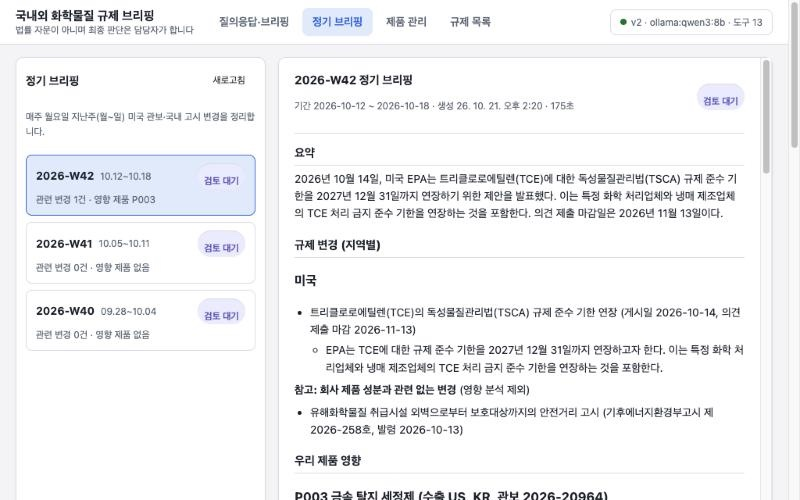
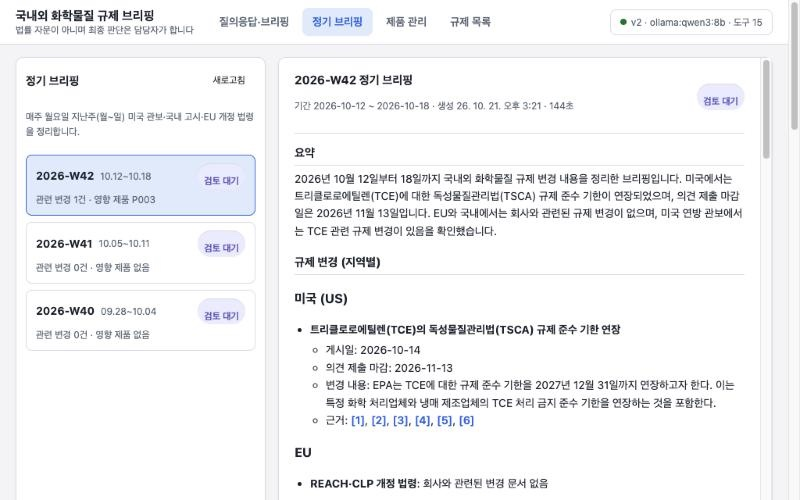
docs: Step 11 EU 수집 실습, 정기 브리핑 경고 기록, 능력 표 갱신

diff --git a/README.md b/README.md
@@ -11,7 +11,7 @@
 
 | 담당자의 문제 | 이 서비스 |
 | --- | --- |
-| 국내외 공고·관보를 매주 직접 찾아 읽는다 (정기 브리핑: 매주 월요일 지난주 변경을 자동으로 정리) | 미국 연방 관보 API + 국내 법제처 행정규칙(고시) 실시간 조회 → 요청한 물질·제품과 관련된 문서만 골라 한국어 요약 (관련 변경이 없으면 없다고 먼저 답함). 국내 수집은 LLM이 검색어를 정하는 ReAct 에이전트 |
+| 국내외 공고·관보를 매주 직접 찾아 읽는다 (정기 브리핑: 매주 월요일 지난주 변경을 자동으로 정리) | 미국 연방 관보 API + 국내 법제처 행정규칙(고시) + EU REACH·CLP 개정 법령(EU 출판국 Cellar) 실시간 조회 → 요청한 물질·제품과 관련된 문서만 골라 한국어 요약 (관련 변경이 없으면 없다고 먼저 답함). 국내 수집은 LLM이 검색어를 정하는 ReAct 에이전트 |
 | 우리 제품이 해당되는지 원료 목록과 일일이 대조한다 | 제품 CAS × 규제 DB를 **코드로 판정** (수출 지역, 성형품/혼합물, 함량 기준, 그룹 합산, 불순물) |
 | 번역·요약 중 숫자·CAS·날짜가 틀리면 대응이 틀어진다 | 원문과 번역의 CAS·날짜·숫자를 코드로 대조, 지어낸 사실은 가드가 차단 |
 | 판단 근거를 나중에 다시 찾기 어렵다 | 답변의 `[n]`마다 원문 문장·번역·출처 URL·기준일·검증 상태 |
@@ -66,8 +66,8 @@ flowchart TD
     inform -- inform --> fin
     inform -- lookup --> lookup["물질·제품 조회<br/>코드 판정 + 함유 제품"] --> fin
     inform -- briefing --> plan[계획] --> gate["계획 검증 (코드)"]
-    gate -- Send 병렬 --> us["해외 수집<br/>연방 관보"] & kr["국내 수집 (ReAct)<br/>법제처 고시"] & db["규제 DB 대조"]
-    us & kr & db --> review{"수집 충분?"}
+    gate -- Send 병렬 --> us["해외 수집<br/>연방 관보"] & kr["국내 수집 (ReAct)<br/>법제처 고시"] & eu["EU 수집<br/>REACH·CLP 개정 법령"] & db["규제 DB 대조"]
+    us & kr & eu & db --> review{"수집 충분?"}
     review -- "관련 문서 0건: 기간 30일로 넓혀 재조사" --> us
     review --> sum["요약·근거 번역<br/>+ 무결성 검사"] --> impact["제품 영향 판정 (코드)"]
     impact --> write["브리핑 작성 (토큰 스트리밍)"] --> guard["사실·근거 가드 (코드)"]
@@ -204,7 +204,7 @@ LLM_BACKEND=ollama uv run python scripts/run_eval.py --judge
 | API | FastAPI, SSE, Pydantic, lifespan 싱글턴, CORS 허용 출처 명시 |
 | 화면 | Vue 3 + Vite, `fetch` + `ReadableStream` SSE 파서, marked + DOMPurify |
 | 관측·평가 | LangSmith (트레이스·피드백·Dataset·Experiment), 코드 채점기 + LLM-as-Judge, 관리자 페이지(실행 기록·승인 이력) |
-| 데이터 | SQLite (규제 DB, 제품 DB), 미국 연방 관보 API, 법제처 국가법령정보 Open API |
+| 데이터 | SQLite (규제 DB, 제품 DB), 미국 연방 관보 API, 법제처 국가법령정보 Open API, EU 출판국 Cellar(SPARQL) |
 | 배포 | Docker Compose (백엔드 이미지 + nginx 화면 이미지 + 영구 볼륨, 선택: Ollama 컨테이너) |
 
 ## 프로젝트 구조
@@ -224,19 +224,19 @@ frontend/        Vue 화면 (사용자 index.html · 관리자 admin.html)
 data/            규제 목록·가상 제품·용어집 CSV, 관보·국내 고시 스냅샷, 평가 질문
 scripts/         DB 빌드, 공식 목록 가져오기, 실행, 평가 스크립트
 Dockerfile, docker-compose.yml   배포 (frontend/Dockerfile·nginx.conf)
-tests/           pytest (백엔드 120개 · 화면 23개)
-docs/lab/        단계별 핸즈온 랩 (Step 0 → 10)
+tests/           pytest (백엔드 126개 · 화면 23개)
+docs/lab/        단계별 핸즈온 랩 (Step 0 → 11)
 ```
 
 ## 문서
 
-- [핸즈온 랩](docs/lab/README.md): Step 0(골격)부터 Step 10(정기 브리핑)까지, 단계마다 만든 파일·실행 명령·기대 결과·실제로 겪은 문제
+- [핸즈온 랩](docs/lab/README.md): Step 0(골격)부터 Step 11(EU 수집)까지, 단계마다 만든 파일·실행 명령·기대 결과·실제로 겪은 문제
 - [주제·페인포인트·설계](docs/topic-final.md) · [요구사항](REQUIREMENTS.md) · [개발 일지](DEVLOG.md) · [트러블슈팅](troubleshooting.md)
 
 ## 한계
 
 - **다루는 지역은 국내·미국·EU·중국·일본**입니다. 그 밖의 국가(예: 태국)는 "확인할 수 없음"으로 안내하고, 판정 결과가 없어도 수출 가능 여부를 뜻하지 않습니다.
-- **변경 수집은 미국 연방 관보와 국내 법제처 행정규칙(고시)**입니다. EU·중국·일본은 등재 목록 대조로만 확인합니다. 국내는 개정문·이번 부칙·신구 조문 대비로 "무엇이 바뀌었나"를 판단하며, 별표만 바뀌어 대비표가 없는 고시는 "개정 내용 미제공 — 원문 확인"으로 안내합니다.
+- **변경 수집은 미국 연방 관보, 국내 법제처 행정규칙(고시), EU REACH·CLP 개정 법령**입니다. 중국·일본은 등재 목록 대조로만 확인합니다. EU SVHC 후보 목록 추가는 법령이 아니라 ECHA 결정이라 자동 수집하지 않고 규제 DB(확인일) 기준으로 안내합니다. 국내는 개정문·이번 부칙·신구 조문 대비로 "무엇이 바뀌었나"를 판단하며, 별표만 바뀌어 대비표가 없는 고시는 "개정 내용 미제공 — 원문 확인"으로 안내합니다.
 - 소형 모델이 경과조치("~한 것으로 본다")의 날짜를 의무 기한으로 잘못 요약할 수 있습니다. 날짜가 원문에 있으면 가드가 잡지 못하므로 근거 원문을 함께 확인해야 합니다.
 - "○○ 및 그 화합물"처럼 총칭으로 지정된 항목은 CAS로 모든 화합물을 대조할 수 없습니다(대표 화합물만 명시).
 - 공식 목록은 개정됩니다. 확인일(2026-10-20) 이후 개정은 `scripts/import_official_lists.py`로 다시 가져와야 합니다.

diff --git a/docs/lab/step11-eu-feed.md b/docs/lab/step11-eu-feed.md
@@ -1,0 +1,58 @@
+# Step 11 — EU 수집 에이전트
+
+## 목표
+"EU REACH의 가장 최근 변경은?"에 "확인할 수 없음"(Step 9)이 아니라 **실제 개정 법령**으로 답한다.
+EUR-Lex 웹사이트는 자동 요청을 막지만(403), 같은 공식 문서를 EU 출판국 **Cellar**가 SPARQL(검색)·XHTML(본문)로 준다. 키가 필요 없다.
+
+```
+search_eu_acts  : SPARQL — REACH(32006R1907)·CLP(32008R1272)를 "개정한(amends)" 법령, 채택일 기간, 영문 제목
+get_eu_act      : Cellar 본문 → 회사 물질(영문명·CAS) 언급, 채택일("of 8 August 2025"), 관보 게재일("L series 2025/1731 11.8.2025")
+EU 수집 에이전트: 회사 물질이 나오는 법령 → 영향 분석 / 나머지 → "회사 제품 성분과 관련 없는 변경"(참고)
+                  90일에 없으면 1년 재검색 · SVHC 추가는 법령이 아니라 ECHA 결정 → "확인하지 못한 항목" + DB 기준 최근 등재
+```
+
+## 만드는 파일
+
+| 파일 | 역할 |
+| --- | --- |
+| `mcp_servers/reg_feed_server.py` (수정) | `search_eu_acts`(기간·최근 N일, 스냅샷), `get_eu_act`(본문·날짜·물질) |
+| `scripts/fetch_eu_snapshot.py`, `data/feeds/eu_*` | EU 스냅샷 (최근 400일 개정 법령 3건과 본문) |
+| `app/agents/subagents.py` (수정) | `_eu_feed` — 미국 수집과 같은 방식(코드가 순서를 정함) |
+| `app/agents/graph.py`, `understand.py` (수정) | EU 작업·1년 재검색·찾지 못함 안내, EU 변경 + SVHC 언급이면 DB 기준 최근 등재도 |
+| `app/domain/coverage.py`, `responses.py` (수정) | 수집 가능 지역에 EU (중국·일본만 "수집 미지원") |
+| `app/domain/mentions.py` (수정) | 정식 이름이 더 큰 물질명의 조각이면 인정하지 않음 (`bis[phenol]` ≠ 페놀) |
+| `tests/test_eu_feed.py` | 검색 기간, 날짜·언급, 이름 경계, 브리핑, 요청 물질 없음 |
+
+## 설계 포인트
+- **"amends" 관계로 찾는다**: 키워드 검색이 아니라 법령 간 공식 관계(개정)로 — 다른 법령의 언급에 섞이지 않는다
+- **관련 없는 개정도 참고로 보인다**: "가장 최근 변경"을 물으면 회사 물질과 무관해도 최근 개정 목록은 답이다 (영향 분석에서만 빠짐)
+- **할 수 없는 것을 밝힌다**: SVHC 후보 목록 추가는 ECHA 결정 → 수집에 안 보인다는 사실을 "확인하지 못한 항목"에, 대신 규제 DB(확인일 기준)의 최근 등재를 함께
+- 정기 브리핑에도 EU가 들어간다 (지난 3주 예시 다시 생성)
+
+## 따라 하기
+
+```bash
+uv run pytest -q tests/test_eu_feed.py
+```
+
+```bash
+uv run python scripts/fetch_eu_snapshot.py
+```
+
+화면: "최근 EU 규제 변경 브리핑해줘", "EU REACH 란 무엇인지 알려주시고, 가장 최근 변경 사항 알려주세요."
+
+## 결과 (실제 Cellar, 2026-10-21)
+
+| 법령 | 채택 · 관보 게재 | 내용 | 회사 물질 |
+| --- | --- | --- | --- |
+| 2026/1168 | 06-01 · 06-02 | 부속서 XVII — 합성 고분자 미세입자 | 없음 |
+| 2026/859 | 04-20 · 04-21 | 부속서 XVII 개정 | 없음 |
+| 2025/1988 | 2025-10-02 · 10-03 | 부속서 XVII 개정 | PFOA (1년 범위 밖) |
+
+## 실제로 겪은 문제
+- **"Phenol"이 `…bis[phenol] (1:1)`에서 잡힘** — EU 법령은 긴 화학 명명법을 그대로 싣는다. 단어 경계(글자·숫자)만 보면 대괄호·하이픈 안 조각도 이름으로 인정 → 정식 이름은 앞뒤가 `[ ] - , '`이면 인정하지 않음 (괄호 약어 "(TCE)"는 그대로)
+- **본문만 받으면 채택일·게재일이 비어 있음** — 게재일은 줄바꿈 때문에 정규식이 안 맞음, 채택일은 검색 결과에만 있음 → 본문 첫머리에서 둘 다 읽음
+- **정기 브리핑 예시 3건 모두 품질 경고** — 가드가 코드가 넣은 고시 번호·기간·"10월 18일"을 지어낸 숫자로 판정. Step 10에서 커밋한 예시에도 있었는데 놓쳤음 → 가드 기준 자료(`_guard_reference`)에 문서 표기·기간(한국어 표기 포함)·질문 추가, 직접 시험하는 테스트(수정 전 실패 확인), 예시 재생성
+- **모델이 한 출처의 "관련 없는 변경"을 모든 출처에 쓰고, 확인하지 않은 중국·일본을 "변경 없음"으로** → 출처별 상태를 코드가 알려 줌
+- **국내 ReAct가 "신의료기술 평가" 고시를 고름** → LLM이 고른 고시도 제목에 화학 관련 단어가 있어야 참고로 싣는다
+- 자세한 내용: [troubleshooting.md](../../troubleshooting.md)

diff --git a/troubleshooting.md b/troubleshooting.md
@@ -269,3 +269,18 @@
 
 - 증상: 정기 브리핑("… 국내외 화학물질 규제 변경")이 국내만 검색
 - 해결: "국내외·국내 및 해외"는 지역 판별에서 제외 (모두를 뜻함), 정기 브리핑은 수집 가능한 모든 지역
+
+## [2026-10-21] EU 법령의 긴 물질명 속 조각을 회사 물질로 인식 ("bis[phenol]" → 페놀)
+
+- 상황: Step 11 EU 수집 — REACH 개정 법령 2025/1731 본문에서 회사 물질 찾기
+- 증상: 페놀(회사 제품 성분)이 언급된 것으로 나옴. 실제 문맥은 "…salt with 4,4'-[…]bis[phenol] (1:1)" — 다른 물질 이름의 일부
+- 원인: 이름 매칭의 경계가 "앞뒤가 글자·숫자가 아님"뿐이라 대괄호·하이픈 안 조각도 인정. 미국 관보는 일반 문장이라 드러나지 않았음
+- 해결: 정식 이름은 앞이 `[ - , '`이거나 뒤가 `] -`이면 인정하지 않음. 괄호 약어 "(TCE)"는 그대로 인정. 회귀 테스트
+
+## [2026-10-21] 정기 브리핑 예시 3건 모두 품질 경고 — 가드가 코드가 넣은 값을 "지어낸 숫자"로
+
+- 상황: Step 11에서 정기 브리핑 예시를 다시 만들다 본문 끝의 "⚠ 품질 기준을 완전히 충족하지 못했습니다"를 발견. **Step 10에서 커밋한 예시에도 이미 붙어 있었는데 놓쳤다** (상태·영향 제품만 확인하고 본문 끝을 보지 않음)
+- 원인: 가드가 "주어진 값"으로 인정하는 메타데이터에 국내·EU 문서 표기(고시 제2026-18호, EU 2026/1168), 정기 브리핑 기간(2026-10-12~10-18), 질문 원문이 빠져 있었음 → 코드가 참고 목록에 넣은 번호·기간을 지어낸 숫자로 판정 → 재작성 반복 + 경고
+- 해결: 가드 기준 자료(`_guard_reference`)에 문서 표기·기간·질문 추가, 직접 시험하는 회귀 테스트(수정 전 실패 확인). 예시 3주 재생성
+- 함께 고침: 출처별 상태를 코드가 알림 ("미국 연방 관보: 회사 관련 변경 문서 없음" 등) — 모델이 한 출처의 "관련 없는 변경"을 모든 출처에 있는 것처럼 쓰거나, 확인하지 않은 중국·일본을 "변경 없음"으로 쓰던 문제
+- 교훈: Fake 모드 테스트가 그 경로(국내 참고 문서가 생기는 경우)를 지나지 않으면 통과해도 의미가 없다. 생성 결과는 본문 끝까지 확인한다

diff --git a/DEVLOG.md b/DEVLOG.md
@@ -89,6 +89,8 @@
 - Step 9 질문 이해·범위 판정: 이해 노드(코드 추출 + LLM 의도 분해), 범위 밖·확인 불가 안내(코드 문구), 규제 설명·목록 조회, 후속 질문, 대화 승인 제거. EU REACH 질문 330초 오답 → 13.7초 정답
 - Step 10 정기 브리핑: 같은 그래프에 고정 기간, 주차별 저장·검토 완료, 매주 월요일 스케줄러(Docker), 정기 브리핑 탭, 지난 3주 예시(실제 관보·법제처·Ollama: W42 P003, W41·W40 변경 없음)
 - 데이터 오류 수정: 영문명이 "1"·"2."로 잘린 26행 (화관법 금지물질 3, REACH XVII 부록 23) + 빌드 검증 규칙 8
+- 정기 브리핑 예시의 품질 경고(가드가 고시 번호·기간을 지어낸 숫자로 판정 — Step 10 때 놓침) 수정, 출처별 상태 안내, 국내 ReAct의 무관 고시 거름, 예시 재생성
+- Step 11 EU 수집: EU 출판국 Cellar SPARQL로 REACH·CLP 개정 법령(amends 관계) 검색, 본문에서 회사 물질·채택일·게재일, 관련 없는 개정은 참고, SVHC 추가(ECHA 결정)는 DB 기준으로 안내. 정기 브리핑에도 EU
 - Step 7 관리자 페이지: 사용자 화면과 분리(`/admin/`), `ADMIN_TOKEN` 잠금. 실행 기록(처리량·시간·토큰·비용), 승인 대기·승인·반려 이력, 피드백(질문과 연결), Before/After 평가, 규제 데이터 상태, LangSmith 바로가기
 
 ### 결정 사항
@@ -98,7 +100,7 @@
 - "모른다"를 말하려면 범위를 코드가 알아야 한다 → 다루는 지역을 코드로 판별
 - 배포는 노트북 로컬 시연 (터널·클라우드는 쓰지 않음)
 - 승인은 결과가 생기는 곳에만: 규제 DB 갱신 반영, 정기 브리핑 검토 완료. 대화 답변 승인·고객 안내문 초안은 만들지 않음
-- 다음 순서: EU 수집 에이전트 → DB 갱신 제안 에이전트(승인 후 반영) → Ollama 전체 재평가
+- 다음 순서: DB 갱신 제안 에이전트(승인 후 반영) → Ollama 전체 재평가
 
 ### 다음 할 일
 - Step 8 반영 Ollama 재평가 (13문항: 국내 K1·K2 포함), README 수치 확인

diff --git a/docs/lab/README.md b/docs/lab/README.md
@@ -17,3 +17,4 @@
 | 8 | [step08-kr-feed.md](step08-kr-feed.md) | 국내 변경 수집: 법제처 행정규칙 ReAct 에이전트 + 안전장치, 개정 내용으로 영향 판단, 1년 재검색 | ✅ |
 | 9 | [step09-routing.md](step09-routing.md) | 질문 이해·범위 판정: 의도 분해, 범위 밖·확인 불가 안내, 규제 설명·목록 조회, 후속 질문, 대화 승인 제거 | ✅ |
 | 10 | [step10-weekly.md](step10-weekly.md) | 정기 브리핑: 기간 고정 수집, 주차별 저장, 매주 월요일 스케줄러, 정기 브리핑 탭·검토 완료, 지난 3주 예시 | ✅ |
+| 11 | [step11-eu-feed.md](step11-eu-feed.md) | EU 수집: REACH·CLP 개정 법령(Cellar SPARQL·본문), 채택일·관보 게재일, SVHC 한계 안내 | ✅ |

diff --git a/docs/routing-architecture.md b/docs/routing-architecture.md
@@ -91,7 +91,7 @@ flowchart LR
 | 능력 | 국내 | 미국 | EU | 중국 | 일본 | 그 밖 |
 | --- | --- | --- | --- | --- | --- | --- |
 | 등재 목록 대조·판정 | ✅ 5종 | ✅ TSCA 6조 | ✅ SVHC·XVII·CLP | ✅ | ✅ | ❌ |
-| 변경 자동 수집 | ✅ 법제처 고시 | ✅ 연방 관보 | ❌ | ❌ | ❌ | ❌ |
+| 변경 자동 수집 | ✅ 법제처 고시 | ✅ 연방 관보 | ✅ REACH·CLP 개정 법령 (Step 11, SVHC 추가는 DB 기준) | ❌ | ❌ | ❌ |
 | 규제 설명 | ✅ | ✅ | ✅ | ✅ | ✅ | ❌ |
 
 ## 4. 응답 원칙
